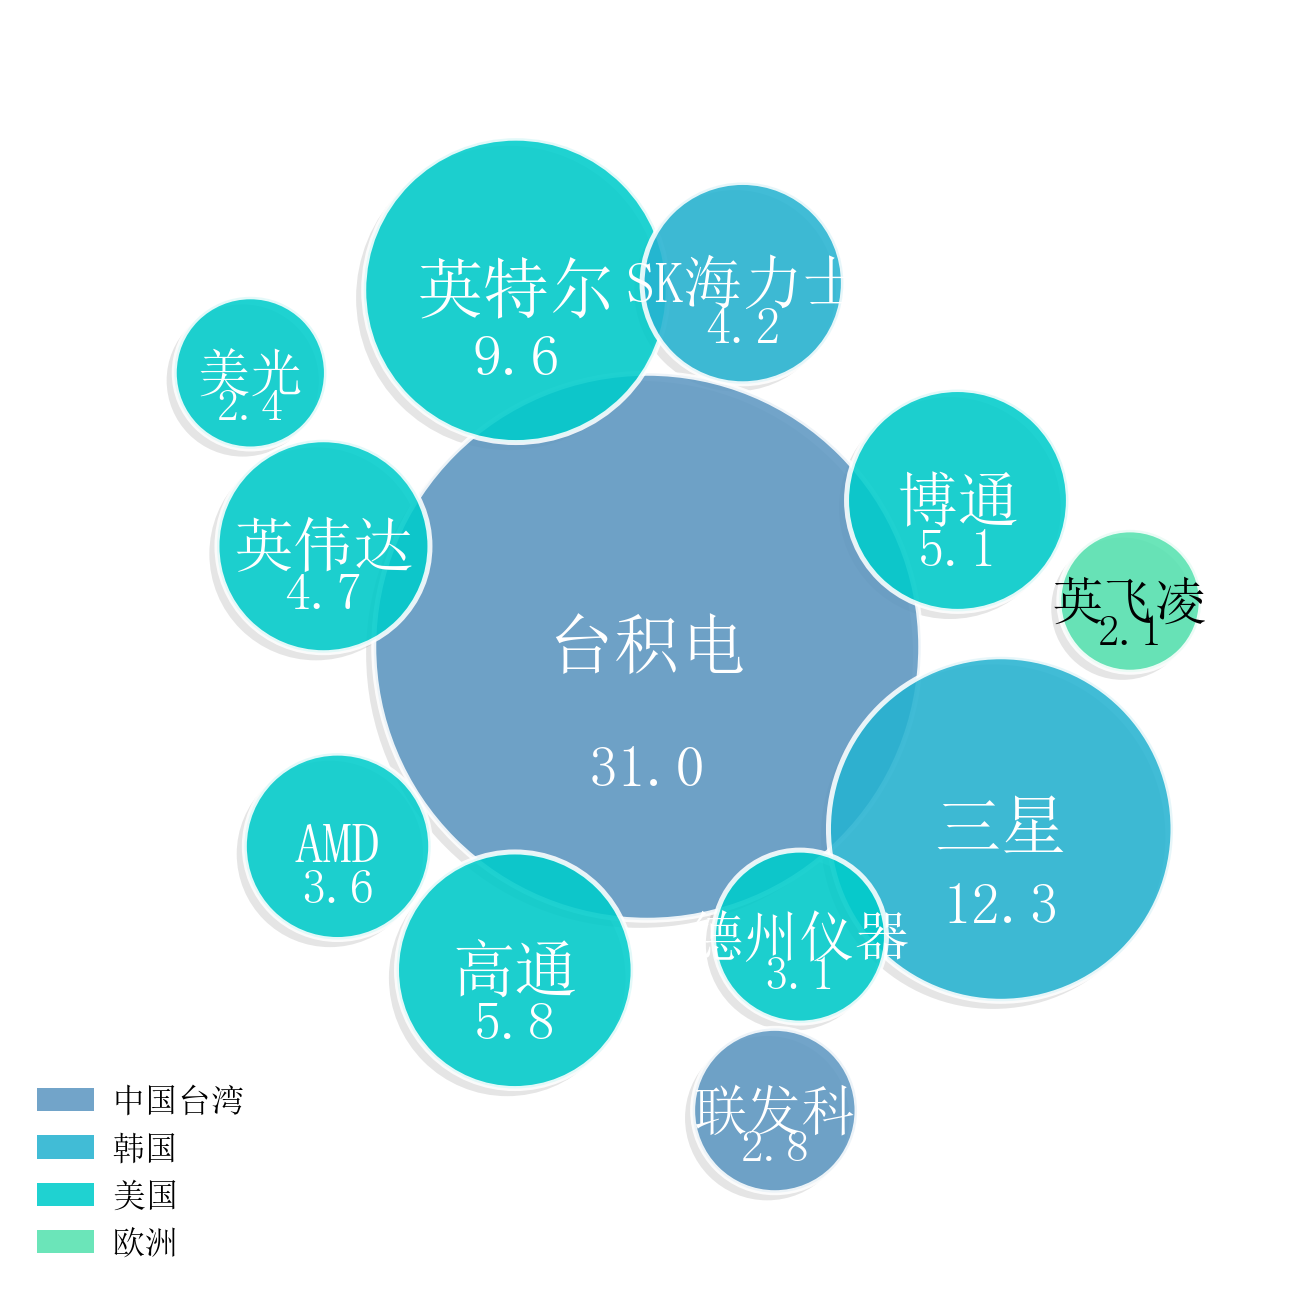
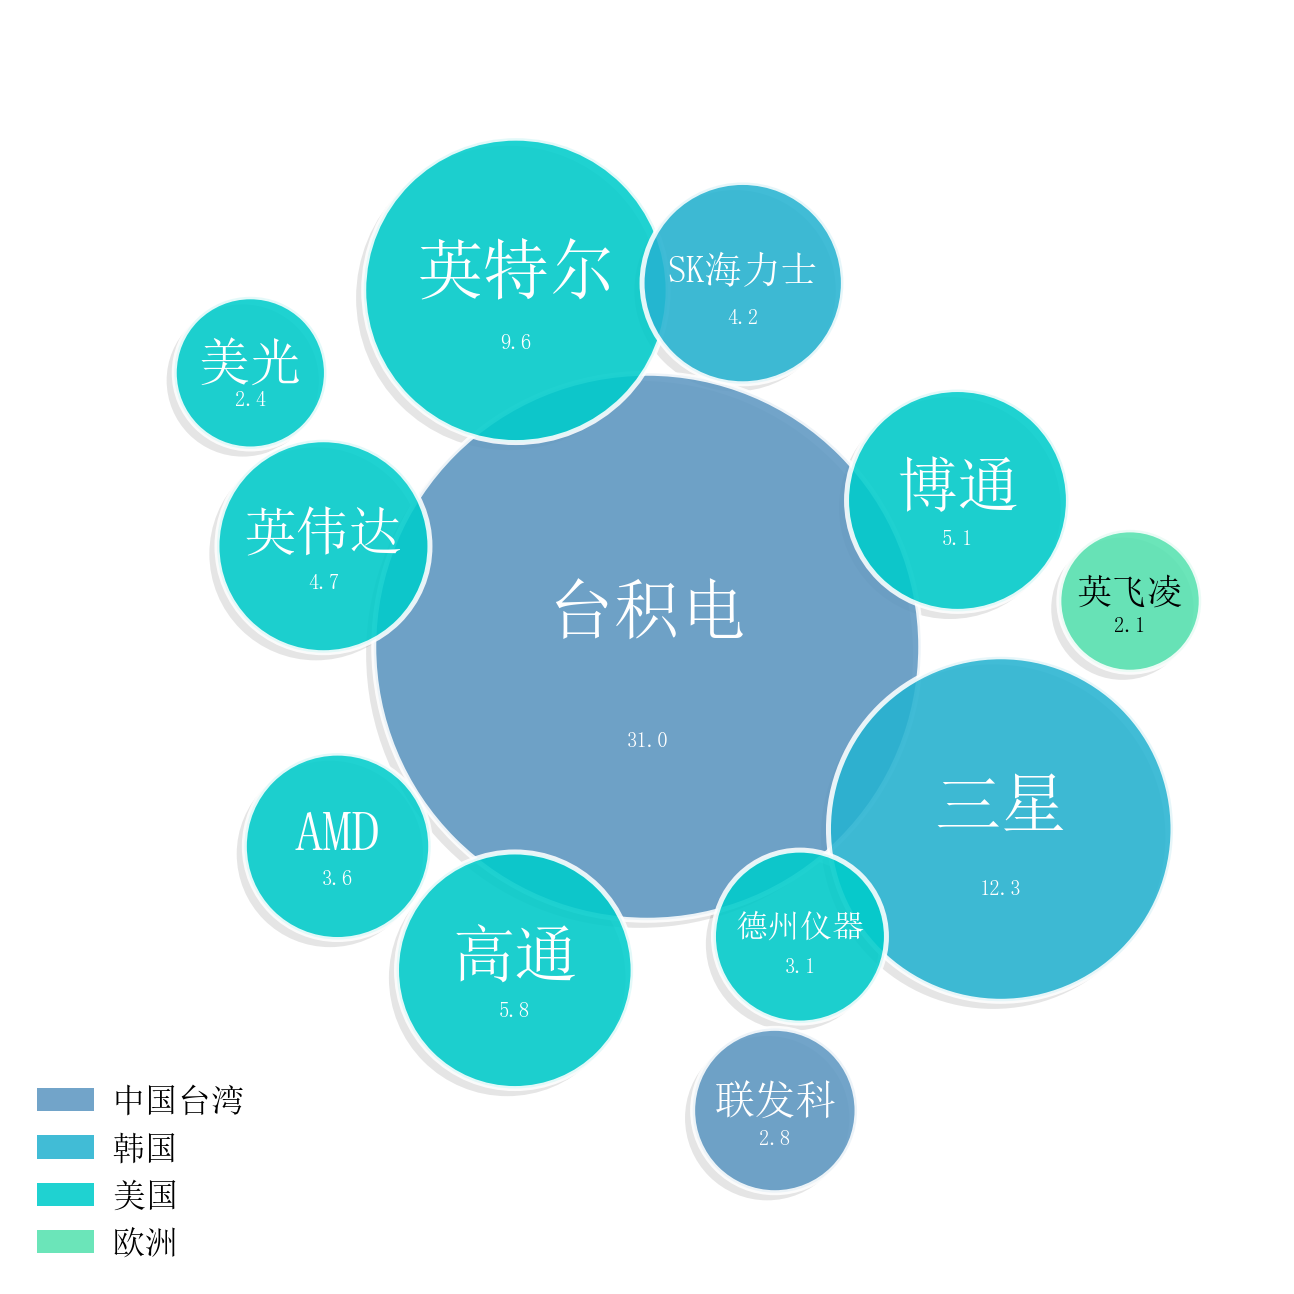
fix(plots): harden dense label layout

diff --git a/sciplot/_plots/statistical.py b/sciplot/_plots/statistical.py
@@ -844,38 +844,18 @@ def plot_volcano(
 
     fig, ax = new_styled_figure(venue, palette, lang)
 
-    ax.scatter(fc, neg_log10p, c=colors, alpha=alpha, s=18, edgecolors="none", **kwargs)
+    scatter_kwargs: Dict[str, Any] = {"s": 18, "edgecolors": "none"}
+    scatter_kwargs.update(kwargs)
+    # 分类颜色和显式 alpha 是 volcano API 的语义参数；即使 kwargs 中出现同名键，
+    # 也不允许产生重复关键字或悄悄覆盖三分类编码。
+    scatter_kwargs["c"] = colors
+    scatter_kwargs["alpha"] = alpha
+    ax.scatter(fc, neg_log10p, **scatter_kwargs)
 
     if show_thresholds:
         ax.axvline(x=fc_threshold, color="#888888", linestyle="--", linewidth=0.8)
         ax.axvline(x=-fc_threshold, color="#888888", linestyle="--", linewidth=0.8)
         ax.axhline(y=-np.log10(p_threshold), color="#888888", linestyle="--", linewidth=0.8)
-
-    # 标注最显著的 top_n 个特征（显著性优先，其次按 |fc|）
-    if annotate_top and labels is not None and top_n > 0:
-        score = neg_log10p + np.abs(fc) * 0.1
-        top_idx = np.argsort(score)[::-1][:top_n]
-        fontsize = max(6, plt.rcParams.get("font.size", 9) - 2)
-
-        # 智能避让：按 y 排序后，相邻标注间距过小时纵向错开，
-        # 避免多个 top 基因标签重叠
-        sorted_idx = sorted(top_idx, key=lambda i: -neg_log10p[i])
-        placed: List[Tuple[float, float]] = []
-        for rank, idx in enumerate(sorted_idx):
-            x0, y0 = float(fc[idx]), float(neg_log10p[idx])
-            # 找最近的已放置标签，若 y 距离 < 1.2 则错开
-            dy = 0.0
-            for px, py in placed:
-                if abs(py - y0) < 1.2 and abs(px - x0) < 0.5:
-                    dy = max(dy, 1.2 - abs(py - y0))
-            offset_y = dy * (1 if rank % 2 == 0 else -1) + 5
-            ax.annotate(
-                str(labels[idx]),
-                xy=(x0, y0),
-                xytext=(5, offset_y), textcoords="offset points",
-                fontsize=fontsize,
-            )
-            placed.append((x0, y0))
 
     # 图例（语言跟随当前设置）
     from matplotlib.patches import Patch
@@ -892,7 +872,72 @@ def plot_volcano(
         Patch(facecolor=color_down, label=legend_labels[1], alpha=alpha),
         Patch(facecolor=color_ns, label=legend_labels[2], alpha=alpha),
     ]
-    ax.legend(handles=handles, loc="upper left", frameon=False)
+    legend = ax.legend(handles=handles, loc="upper left", frameon=False)
+
+    # 标注最显著的 top_n 个特征（显著性优先，其次按 |fc|）。
+    # 这里必须在图例创建之后做，因为 legend 本身也是实际版面的障碍物。
+    # 旧实现把 data-coordinate 距离直接当成 offset points，既不能保证文字之间
+    # 不碰撞，也无法避免图例与上边界；现在直接基于 renderer 的像素 bounding box
+    # 逐个试放，保证标注与已放文字、图例、坐标轴边界之间留出真实间距。
+    if annotate_top and labels is not None and top_n > 0:
+        score = neg_log10p + np.abs(fc) * 0.1
+        top_idx = np.argsort(score)[::-1][:top_n]
+        fontsize = max(6.0, float(plt.rcParams.get("font.size", 9)) - 2.0)
+
+        # 给顶部标注留出约 9% 的数据高度。margins 不改变零点/阈值语义，
+        # 只扩展自动 y limit；用户后续仍可显式 set_ylim 覆盖。
+        ax.margins(x=0.025, y=0.09)
+        fig.canvas.draw()
+        renderer = fig.canvas.get_renderer()
+        axes_bbox = ax.get_window_extent(renderer=renderer)
+        legend_bbox = legend.get_window_extent(renderer=renderer).expanded(1.04, 1.08)
+
+        # 优先把文字放在点的“内侧”：左半边向右、右半边向左，降低轴外裁剪概率。
+        vertical_offsets = (7, 18, -9, 30, -20, 43, -33, 57, -47)
+        horizontal_offsets = (6, 13, 21)
+        placed_bboxes: List[Any] = []
+
+        def _bbox_inside_axes(box: Any, padding: float = 2.0) -> bool:
+            return (
+                box.x0 >= axes_bbox.x0 + padding
+                and box.x1 <= axes_bbox.x1 - padding
+                and box.y0 >= axes_bbox.y0 + padding
+                and box.y1 <= axes_bbox.y1 - padding
+            )
+
+        for idx in sorted(top_idx, key=lambda i: -neg_log10p[i]):
+            x0, y0 = float(fc[idx]), float(neg_log10p[idx])
+            side = 1 if x0 < 0 else -1
+            ha = "left" if side > 0 else "right"
+            accepted = None
+
+            for dx_abs in horizontal_offsets:
+                if accepted is not None:
+                    break
+                for dy in vertical_offsets:
+                    annotation = ax.annotate(
+                        str(labels[idx]),
+                        xy=(x0, y0),
+                        xytext=(side * dx_abs, dy),
+                        textcoords="offset points",
+                        ha=ha,
+                        va="center",
+                        fontsize=fontsize,
+                        annotation_clip=True,
+                    )
+                    fig.canvas.draw()
+                    box = annotation.get_window_extent(renderer=renderer).expanded(1.03, 1.08)
+                    collides = box.overlaps(legend_bbox) or any(
+                        box.overlaps(prev) for prev in placed_bboxes
+                    )
+                    if _bbox_inside_axes(box) and not collides:
+                        accepted = (annotation, box)
+                        break
+                    annotation.remove()
+
+            # 极端拥挤时宁可少标一个，也不要输出互相盖住、越界的文字。
+            if accepted is not None:
+                placed_bboxes.append(accepted[1])
 
     ax.set_xlabel(xlabel)
     ax.set_ylabel(ylabel)

diff --git a/sciplot/_plots/advanced.py b/sciplot/_plots/advanced.py
@@ -607,9 +607,26 @@ def plot_packed_bubble(
         categorical_legend = group_map
     if not 0 < min_size_frac < 1:
         raise ValueError(f"min_size_frac 必须在 (0, 1) 范围内，实际值: {min_size_frac!r}")
+    if not np.isfinite(min_font) or min_font <= 0:
+        raise ValueError(f"min_font 必须为正有限数，实际值: {min_font!r}")
+    if not np.isfinite(max_font) or max_font < min_font:
+        raise ValueError(
+            f"max_font 必须为有限数且不小于 min_font，实际值: {max_font!r}"
+        )
 
     pos, radii = _pack_bubbles(sizes_arr, min_size_frac=min_size_frac)
-    fontsize = plt.rcParams.get("font.size", 9)
+    fontsize = float(plt.rcParams.get("font.size", 9))
+    max_radius = float(max(radii))
+    _, fig_h = fig.get_size_inches()
+    axes_box = ax.get_position()
+    y_span = 2.5
+
+    # 文本 fit 依赖最终 data→display transform，必须在 renderer 测量之前锁定轴范围。
+    # 旧顺序在默认 [0, 1] 坐标上测字，随后再切到 [-1.25, 1.25]，会让“像素级适配”
+    # 失去意义并重新产生跨气泡文字碰撞。
+    ax.set_xlim(-1.25, 1.25)
+    ax.set_ylim(-1.25, 1.25)
+    ax.set_aspect("equal")
 
     from matplotlib.colors import to_rgb
 
@@ -621,23 +638,58 @@ def plot_packed_bubble(
             facecolor="#000000", alpha=0.10, edgecolor="none", zorder=0,
         )
         ax.add_patch(shadow)
-        circle = plt.Circle(
-            pos[i], r, facecolor=colors[i], alpha=alpha,
-            edgecolor="white", linewidth=1.2, zorder=1, **kwargs,
-        )
+        circle_kwargs = {
+            "facecolor": colors[i],
+            "alpha": alpha,
+            "edgecolor": "white",
+            "linewidth": 1.2,
+            "zorder": 1,
+        }
+        circle_kwargs.update(kwargs)
+        circle = plt.Circle(pos[i], r, **circle_kwargs)
         ax.add_patch(circle)
-        # 文字对比度：依据底色亮度选黑/白（packed 气泡文字面积极小，阈值略高）
+        # 文字对比度：依据底色亮度选黑/白（packed 气泡文字面积极小，阈值略高）。
+        # 字号同时受半径和真实可用直径约束；旧实现只看半径，长标签会跨出圆并
+        # 与相邻气泡文字碰撞。
         text_color = contrast_text_color(colors[i], threshold=0.62)
-        fs = max(min_font, min(max_font, fontsize * (0.7 + 1.3 * (r / max(radii)))))
-        ax.text(
-            pos[i][0], pos[i][1], label,
-            ha="center", va="center", fontsize=fs, color=text_color,
-            fontweight="bold", zorder=3,
-        )
+        radial_fs = fontsize * (0.7 + 1.3 * (r / max_radius))
+        height_pt = 2.0 * r / y_span * axes_box.height * fig_h * 72.0
+        height_cap = height_pt * (0.34 if show_values else 0.52)
+        fs = min(max_font, radial_fs, height_cap)
+
+        # min_font 是“可读下限”，不是强制把文字塞进过小气泡的理由。
+        # 若标签在下限字号仍无法容纳，宁可省略标签，保留数值和图例/外部说明。
+        # 文字宽度不能只靠字符数估计：中文、英文、字体 fallback 的真实宽度差异很大，
+        # 因此先创建文字，再用 renderer 的像素 bbox 反算一次字号，使其真正落在圆内。
+        if fs >= min_font:
+            label_y = pos[i][1] + (r * 0.13 if show_values else 0.0)
+            label_artist = ax.text(
+                pos[i][0], label_y, label,
+                ha="center", va="center", fontsize=fs, color=text_color,
+                fontweight="bold", zorder=3,
+            )
+            fig.canvas.draw()
+            renderer = fig.canvas.get_renderer()
+            text_box = label_artist.get_window_extent(renderer=renderer)
+            circle_box = circle.get_window_extent(renderer=renderer)
+            # 标签略上移时圆的可用弦长小于直径，留 20% 安全边界能避免相邻
+            # 相切气泡之间的文字在视觉上“串台”。
+            width_ratio = (circle_box.width * 0.78) / max(text_box.width, 1.0)
+            height_ratio = (circle_box.height * (0.34 if show_values else 0.52)) / max(
+                text_box.height, 1.0
+            )
+            fit_ratio = min(1.0, width_ratio, height_ratio)
+            if fit_ratio < 1.0:
+                fitted_fs = fs * fit_ratio * 0.96
+                if fitted_fs < min_font:
+                    label_artist.remove()
+                else:
+                    label_artist.set_fontsize(fitted_fs)
         if show_values:
+            value_fs = min(max(5.0, min_font - 1.0), max(5.0, fs - 1.5))
             ax.text(
-                pos[i][0], pos[i][1] - r * 0.45, f"{size:{fmt}}",
-                ha="center", va="center", fontsize=max(5, fs - 2),
+                pos[i][0], pos[i][1] - r * 0.34, f"{size:{fmt}}",
+                ha="center", va="center", fontsize=value_fs,
                 color=text_color, zorder=3,
             )
 
@@ -650,9 +702,6 @@ def plot_packed_bubble(
         ]
         ax.legend(handles=handles, loc="lower left", frameon=False, fontsize=8)
 
-    ax.set_xlim(-1.25, 1.25)
-    ax.set_ylim(-1.25, 1.25)
-    ax.set_aspect("equal")
     ax.set_axis_off()
     if title:
         ax.set_title(title)

diff --git a/tests/unit/test_volcano.py b/tests/unit/test_volcano.py
@@ -128,14 +128,50 @@ def test_volcano_save_png(tmp_path, volcano_data, cleanup_figures):
     assert paths[0].exists() and paths[0].stat().st_size > 0
 
 
-def test_volcano_annotation_stagger(cleanup_figures):
-    """近邻 top 基因标注应纵向错开避免重叠。"""
+def test_volcano_annotations_avoid_each_other_legend_and_axes(cleanup_figures):
+    """自动标注必须按真实像素边界避让，而不是只修改抽象 offset。"""
     rng = np.random.default_rng(7)
-    fc = np.r_[rng.normal(0, 1, 300), 2.9, 3.0]
-    p = np.r_[rng.random(300) ** 3, 1e-7, 1e-7]
-    labels = [f"G{i}" for i in range(300)] + ["TOP_A", "TOP_B"]
-    result = sp.plot_volcano(fc, p, labels=labels, annotate_top=True, top_n=8)
-    texts = [t for t in result.ax.texts if t.get_text() in ("TOP_A", "TOP_B")]
-    assert len(texts) == 2
-    ys = [t.get_position()[1] for t in texts]
-    assert abs(ys[0] - ys[1]) > 0.5, "近邻标签未错开"
+    fc = np.r_[rng.normal(0, 0.9, 260), -2.95, -2.82, -2.68, -2.53, 2.70, 2.84]
+    p = np.r_[rng.random(260) ** 2, [1e-8, 1.1e-8, 1.3e-8, 1.6e-8, 1.2e-8, 1.5e-8]]
+    labels = [f"G{i}" for i in range(260)] + [
+        "TOP_LEFT_A", "TOP_LEFT_B", "TOP_LEFT_C", "TOP_LEFT_D",
+        "TOP_RIGHT_A", "TOP_RIGHT_B",
+    ]
+    result = sp.plot_volcano(fc, p, labels=labels, annotate_top=True, top_n=6)
+    result.fig.canvas.draw()
+    renderer = result.fig.canvas.get_renderer()
+    annotations = [t for t in result.ax.texts if t.get_text().startswith("TOP_")]
+    assert len(annotations) >= 4
+
+    boxes = [t.get_window_extent(renderer=renderer).expanded(1.02, 1.05) for t in annotations]
+    for i, box_a in enumerate(boxes):
+        for box_b in boxes[i + 1:]:
+            assert not box_a.overlaps(box_b), "Volcano top 标签仍发生像素级重叠"
+
+    legend = result.ax.get_legend()
+    assert legend is not None
+    legend_box = legend.get_window_extent(renderer=renderer)
+    axes_box = result.ax.get_window_extent(renderer=renderer)
+    for box in boxes:
+        assert not box.overlaps(legend_box), "Volcano 标签与图例重叠"
+        assert box.x0 >= axes_box.x0 - 1.0 and box.x1 <= axes_box.x1 + 1.0
+        assert box.y0 >= axes_box.y0 - 1.0 and box.y1 <= axes_box.y1 + 1.0
+
+
+def test_volcano_scatter_kwargs_do_not_duplicate_semantic_keys(volcano_data, cleanup_figures):
+    fc, p, labels = volcano_data
+    result = sp.plot_volcano(
+        fc,
+        p,
+        labels=labels,
+        annotate_top=False,
+        s=31,
+        alpha=0.42,
+        c="#000000",
+    )
+    scatter = result.ax.collections[0]
+    assert scatter.get_sizes()[0] == pytest.approx(31)
+    assert scatter.get_alpha() == pytest.approx(0.42)
+    # c=... 不得覆盖 Volcano 上调/下调/不显著三分类的语义色。
+    unique = {tuple(c[:3].round(2)) for c in scatter.get_facecolors()}
+    assert len(unique) == 3

diff --git a/tests/unit/test_packed_bubble.py b/tests/unit/test_packed_bubble.py
@@ -119,6 +119,44 @@ def test_packed_bubble_bad_min_size_frac_raises(cleanup_figures):
         sp.plot_packed_bubble(["A"], np.array([1.0]), min_size_frac=0.0)
 
 
+def test_packed_bubble_font_range_validation(cleanup_figures):
+    with pytest.raises(ValueError, match="min_font"):
+        sp.plot_packed_bubble(["A"], np.array([1.0]), min_font=0.0)
+    with pytest.raises(ValueError, match="max_font"):
+        sp.plot_packed_bubble(["A"], np.array([1.0]), min_font=8.0, max_font=6.0)
+
+
+def test_packed_bubble_long_labels_fit_inside_visible_bubbles(cleanup_figures):
+    """可显示的长标签必须真正落在对应气泡的像素边界内。"""
+    labels = ["中心平台", "英特尔", "SK海力士", "博通"]
+    result = sp.plot_packed_bubble(labels, np.array([30.0, 12.0, 8.0, 6.0]))
+    result.fig.canvas.draw()
+    renderer = result.fig.canvas.get_renderer()
+    circles = _bubble_circles(result)
+    text_by_label = {t.get_text(): t for t in result.ax.texts if t.get_text() in labels}
+    for label, circle in zip(labels, circles):
+        text = text_by_label.get(label)
+        if text is None:
+            continue
+        text_box = text.get_window_extent(renderer=renderer)
+        circle_box = circle.get_window_extent(renderer=renderer)
+        assert text_box.x0 >= circle_box.x0 - 1.0
+        assert text_box.x1 <= circle_box.x1 + 1.0
+        assert text_box.y0 >= circle_box.y0 - 1.0
+        assert text_box.y1 <= circle_box.y1 + 1.0
+
+
+def test_packed_bubble_extreme_label_is_omitted_instead_of_overflow(cleanup_figures):
+    label = "THIS_LABEL_IS_FAR_TOO_LONG_FOR_THE_TINY_BUBBLE"
+    result = sp.plot_packed_bubble(["中心", label], np.array([100.0, 1.0]), min_size_frac=0.22)
+    assert label not in [t.get_text() for t in result.ax.texts]
+
+
+def test_packed_bubble_circle_kwargs_can_override_defaults(cleanup_figures):
+    result = sp.plot_packed_bubble(["A"], np.array([1.0]), linewidth=2.5)
+    assert _bubble_circles(result)[0].get_linewidth() == pytest.approx(2.5)
+
+
 def test_packed_bubble_color_by_mismatch_raises(cleanup_figures):
     with pytest.raises(ValueError, match="color_by"):
         sp.plot_packed_bubble(["A", "B"], np.array([1.0, 2.0]), color_by=["x"])

diff --git a/CHANGELOG.md b/CHANGELOG.md
@@ -25,6 +25,11 @@
   面积、画布尺寸和标签长度共同约束的字号与双行间距，避免大块文字过小或标签/数值挤压。
 - 修复 `plot_sunburst()` 层级半径方向颠倒的问题：第一层现在位于内环，后代逐层向外展开；
   同时拒绝重复标签、与根不连通的环/孤立层级以及非法 `ring_gap`。
+- 修复 `plot_packed_bubble()` 仅按半径估算字号导致长标签跨出气泡、互相覆盖的问题；
+  现在基于最终坐标变换后的 renderer 像素边界适配文字，空间不足时宁可省略标签而不输出溢出文字，
+  并补齐 `min_font` / `max_font` 校验与 Circle kwargs 覆盖语义。
+- 修复 `plot_volcano()` 顶部自动标注只按数据坐标“错开”、却仍会与图例/相邻文字/轴框重叠的问题；
+  现在按真实渲染后的 bounding box 逐个试放，并避免 `kwargs` 中 `c` / `alpha` 与火山图语义参数冲突。
 
 ### Changed
 
@@ -38,8 +43,8 @@
 ### Tests
 
 - 新增辅助 Axes 审计、UpSet 元数据、Alluvial 闭合路径、出版样式基线、多类图表 palette 隔离，
-  以及 Treemap 边框/字号与 Sunburst 层级拓扑/环方向回归测试。
-- 提交前全量验证：`1562 passed`；Ruff 全绿；Mypy 对 33 个源码文件无错误；47 个 showcase 脚本全部重跑并目视检查 50 张输出图。
+  Treemap 边框/字号、Sunburst 层级拓扑/环方向，以及 Packed Bubble / Volcano 像素级文字布局回归测试。
+- 最新全量验证：`1567 passed`；Ruff 全绿；Mypy 对 33 个源码文件无错误；47 个 showcase 脚本全部重跑并目视检查 50 张输出图。
 
 ---
 

diff --git a/.claude/skills/sciplot/SKILL.md b/.claude/skills/sciplot/SKILL.md
@@ -5,7 +5,7 @@ description: >-
   统计图、多面板图、期刊投稿图，或需要优化现有 matplotlib 科研图时触发；也适用于
   “这些数据怎么可视化”“把图做得像顶刊”“提升论文图质量”等未指定图型的任务。
   优先使用项目内 sciplot API 完成静态科研可视化；明确要求交互式网页图、地图或动画时不触发。
-version: 2.0.0
+version: 2.0.1
 author: rippleshe
 user-invocable: true
 allowed-tools: "Read Write Edit Bash Glob Grep"
@@ -142,6 +142,7 @@ sp.save(fig, "figures/fig1", formats=("pdf", "png"), dpi=600)
 - 主方法可以加粗或提高 z-order；不要同时加粗、放大、换色、加阴影四重强调。
 - 大散点样本降低 alpha 或改 hexbin；小样本保留真实点更重要。
 - 标题不是必须。论文图通常由 caption 承担完整说明。
+- 密集自动标注必须在最终坐标变换后用 renderer 检查真实像素碰撞；空间不够时宁可少标或省略，也不要让文字越界、压住图例或互相覆盖。
 
 ### 多面板图必须统一
 
